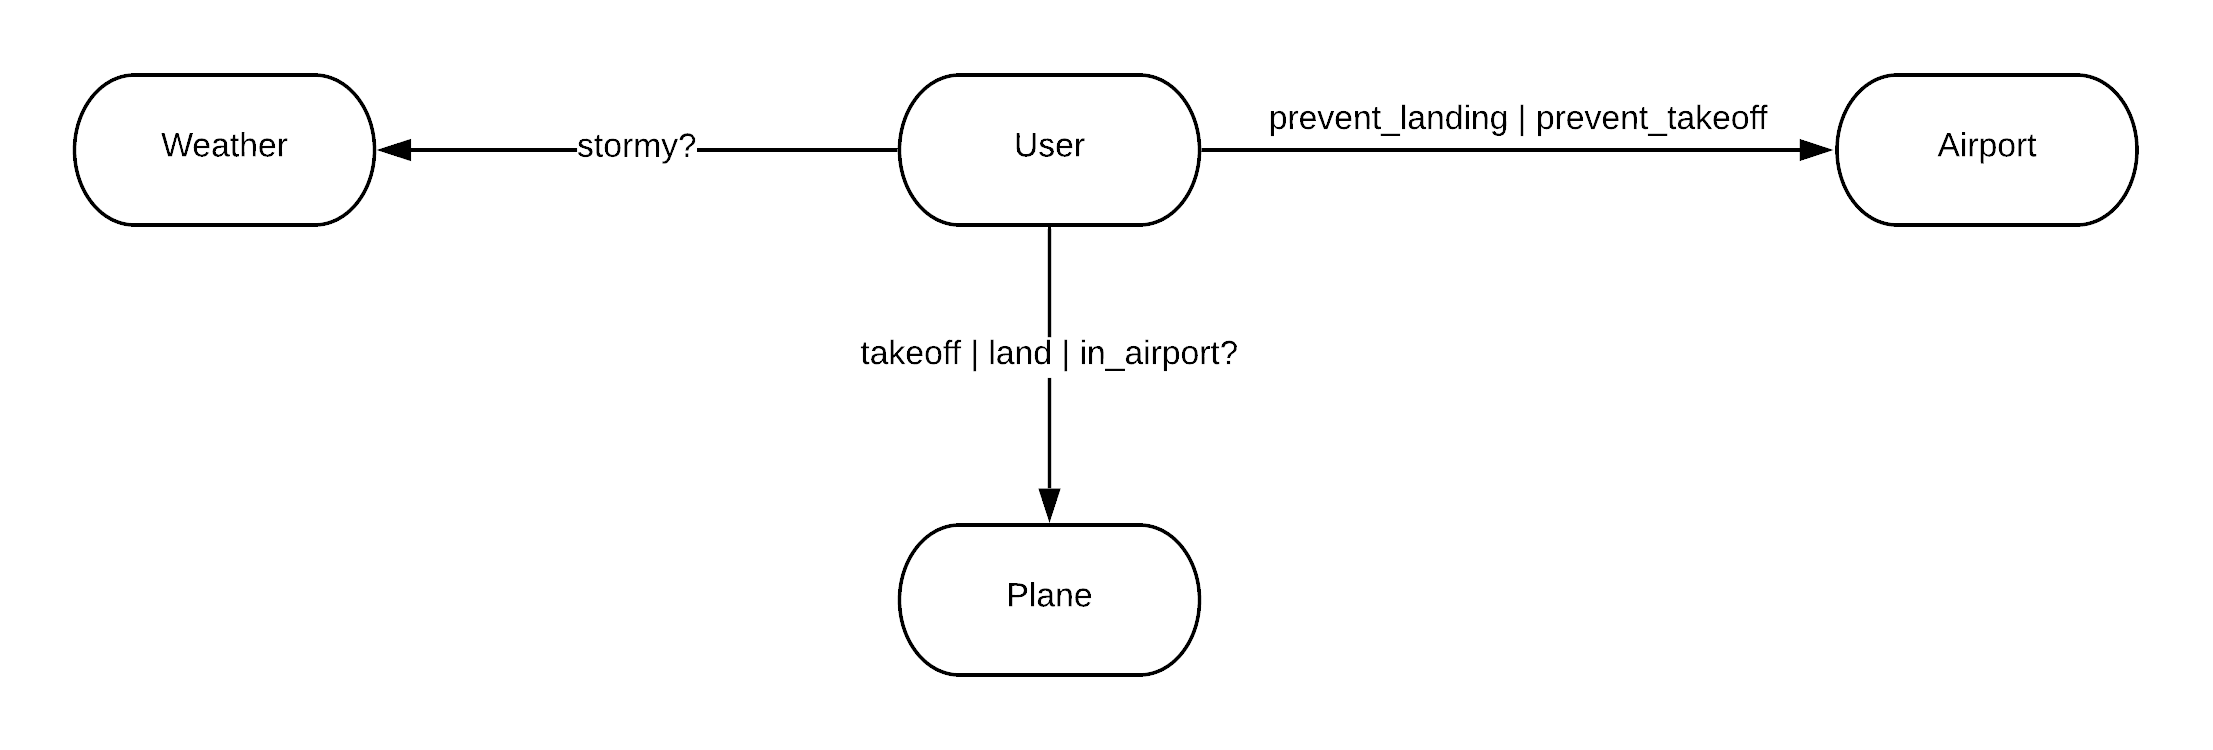
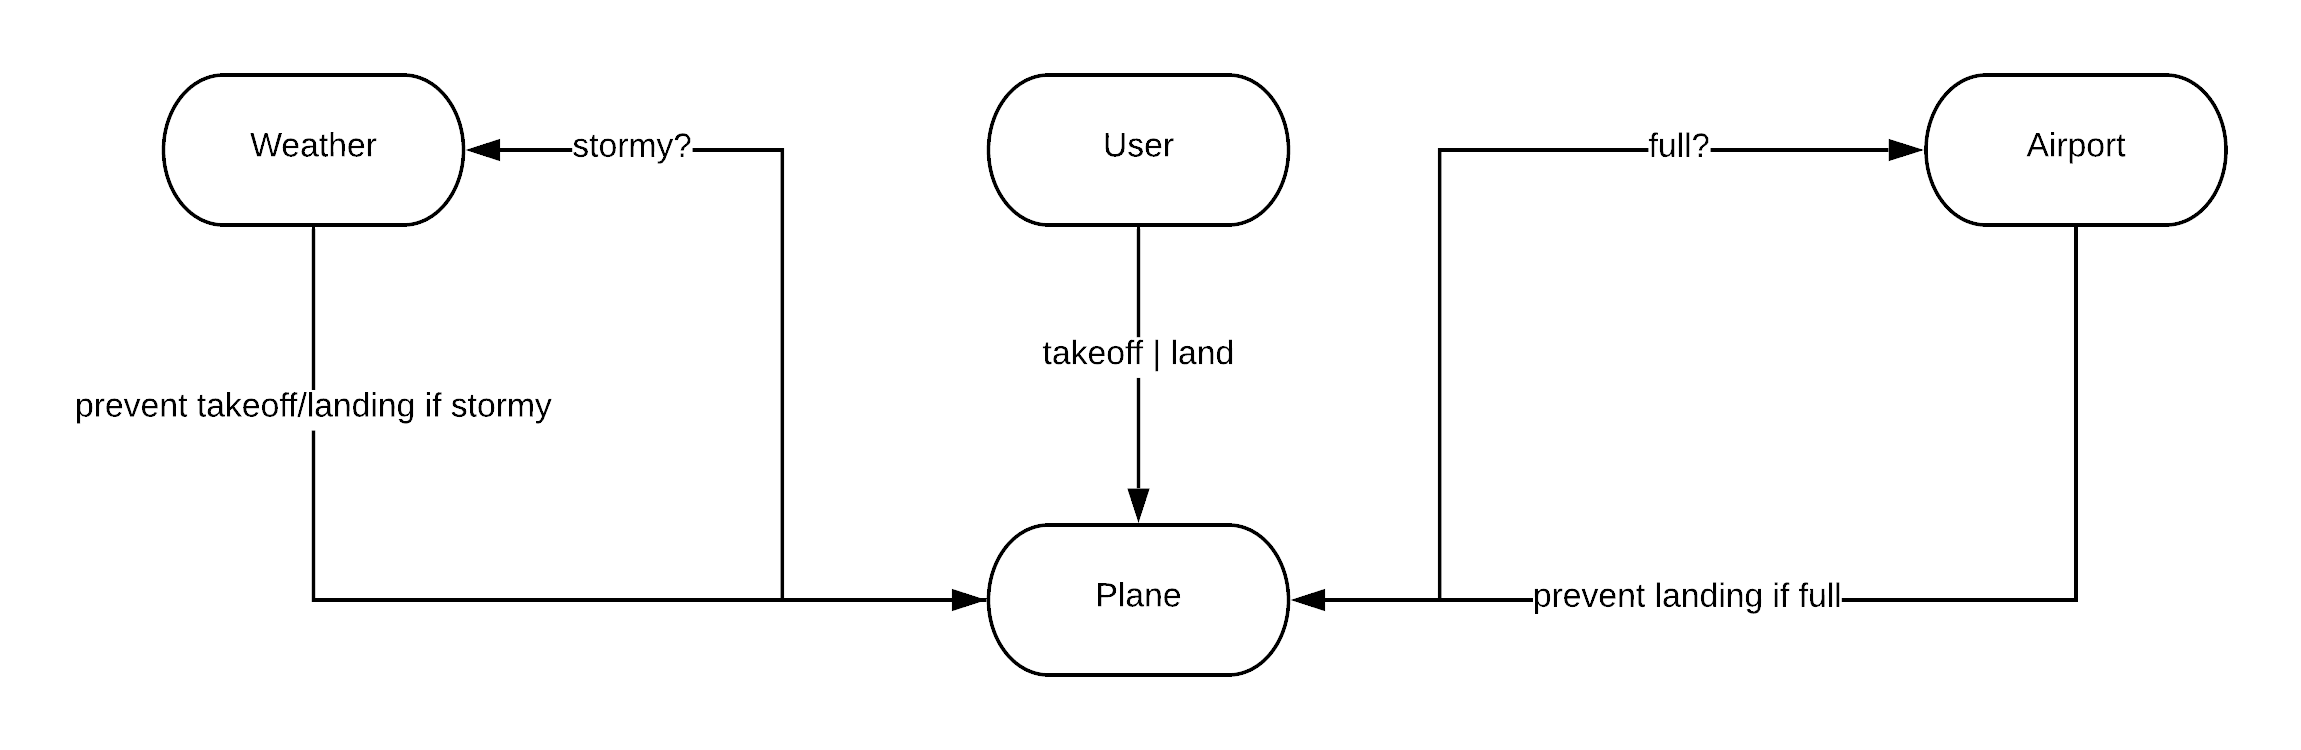
Updated README and refactored code

diff --git a/spec/plane_spec.rb b/spec/plane_spec.rb
@@ -6,8 +6,6 @@ describe Plane do
 
   it { should respond_to(:land).with(2).arguments }
 
-  it { should respond_to(:in_airport?) }
-
   it "should be assigned an location upon creation" do
     expect(subject.location).to_not be nil
   end

diff --git a/README.md b/README.md
@@ -88,4 +88,9 @@ Finally, don’t overcomplicate things. This task isn’t as hard as it may seem
 
 * Finally, please submit a pull request before Monday at 9am with your solution or partial solution.  However much or little amount of code you wrote please please please submit a pull request before Monday at 9am.
 
-![Object_Interactio_Diagram](https://github.com/jyoung-gds/airport_challenge/blob/main/Object%20Interaction%20Diagram.png?raw=true)
+# Solution Design
+
+The solution I have designed uses three classes: Airport, Plane and Weather. The object interaction diagram below shows how these classes interact with the user and each other and what messages each can receive.
+
+### Object Interaction Diagram
+![Object_Interaction_Diagram](https://github.com/jyoung-gds/airport_challenge/blob/main/Object%20Interaction%20Diagram.png?raw=true)
